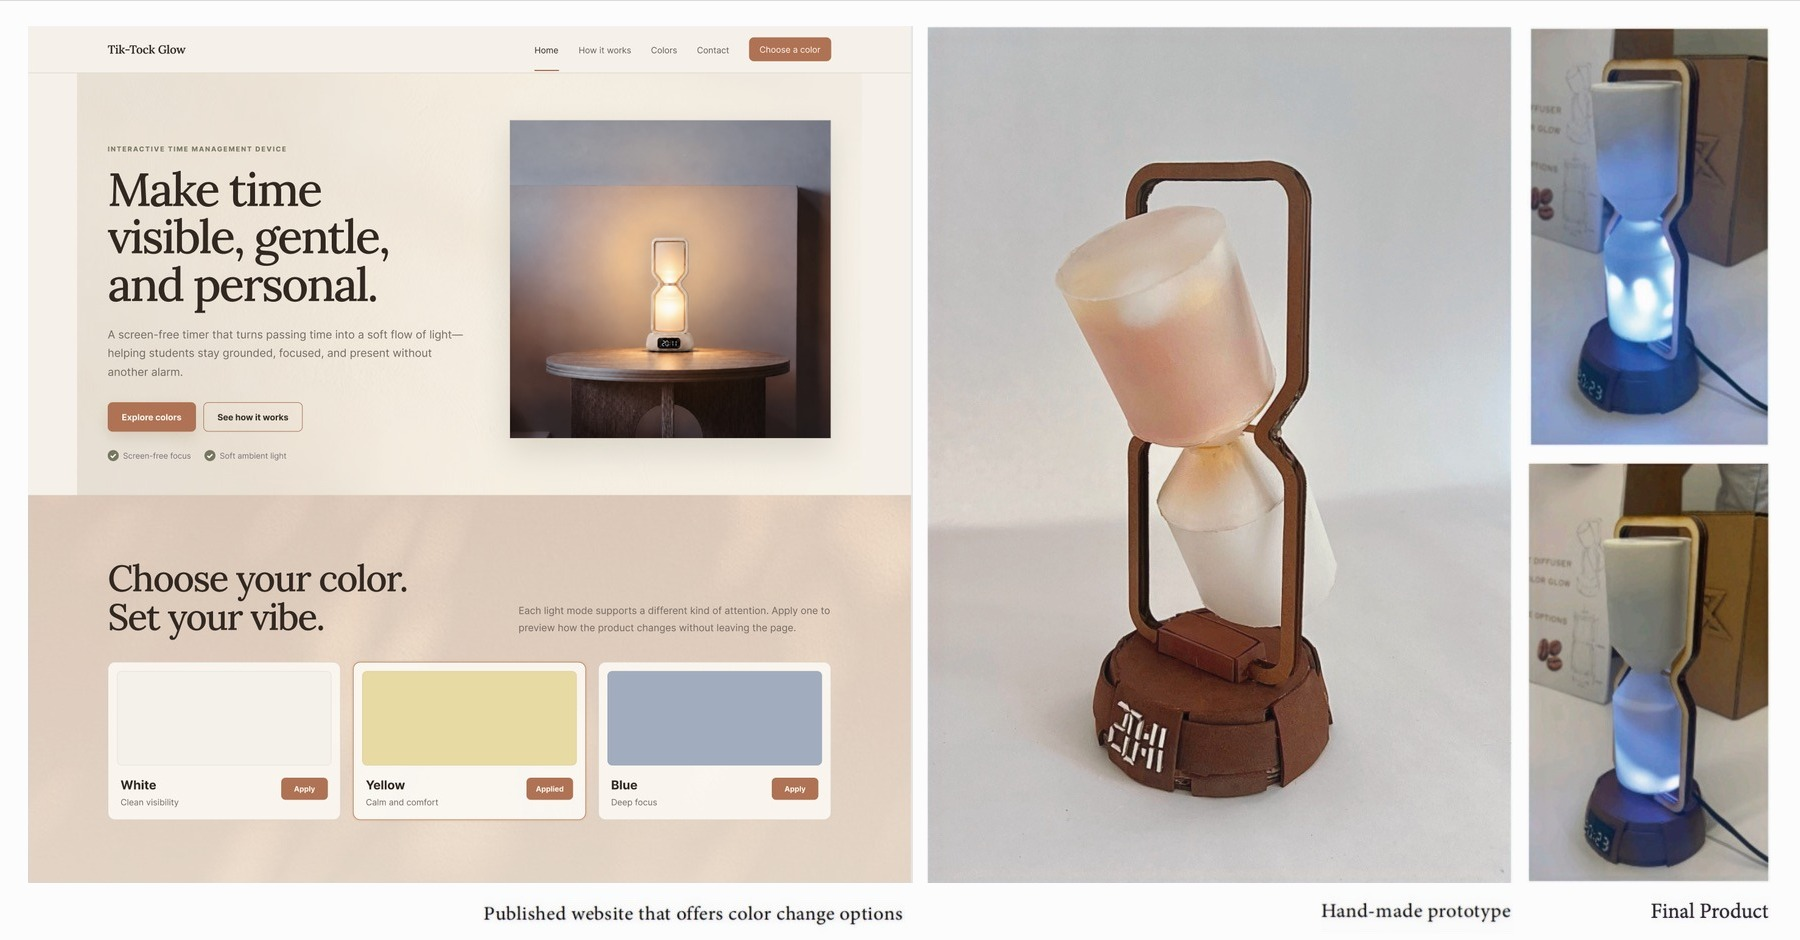
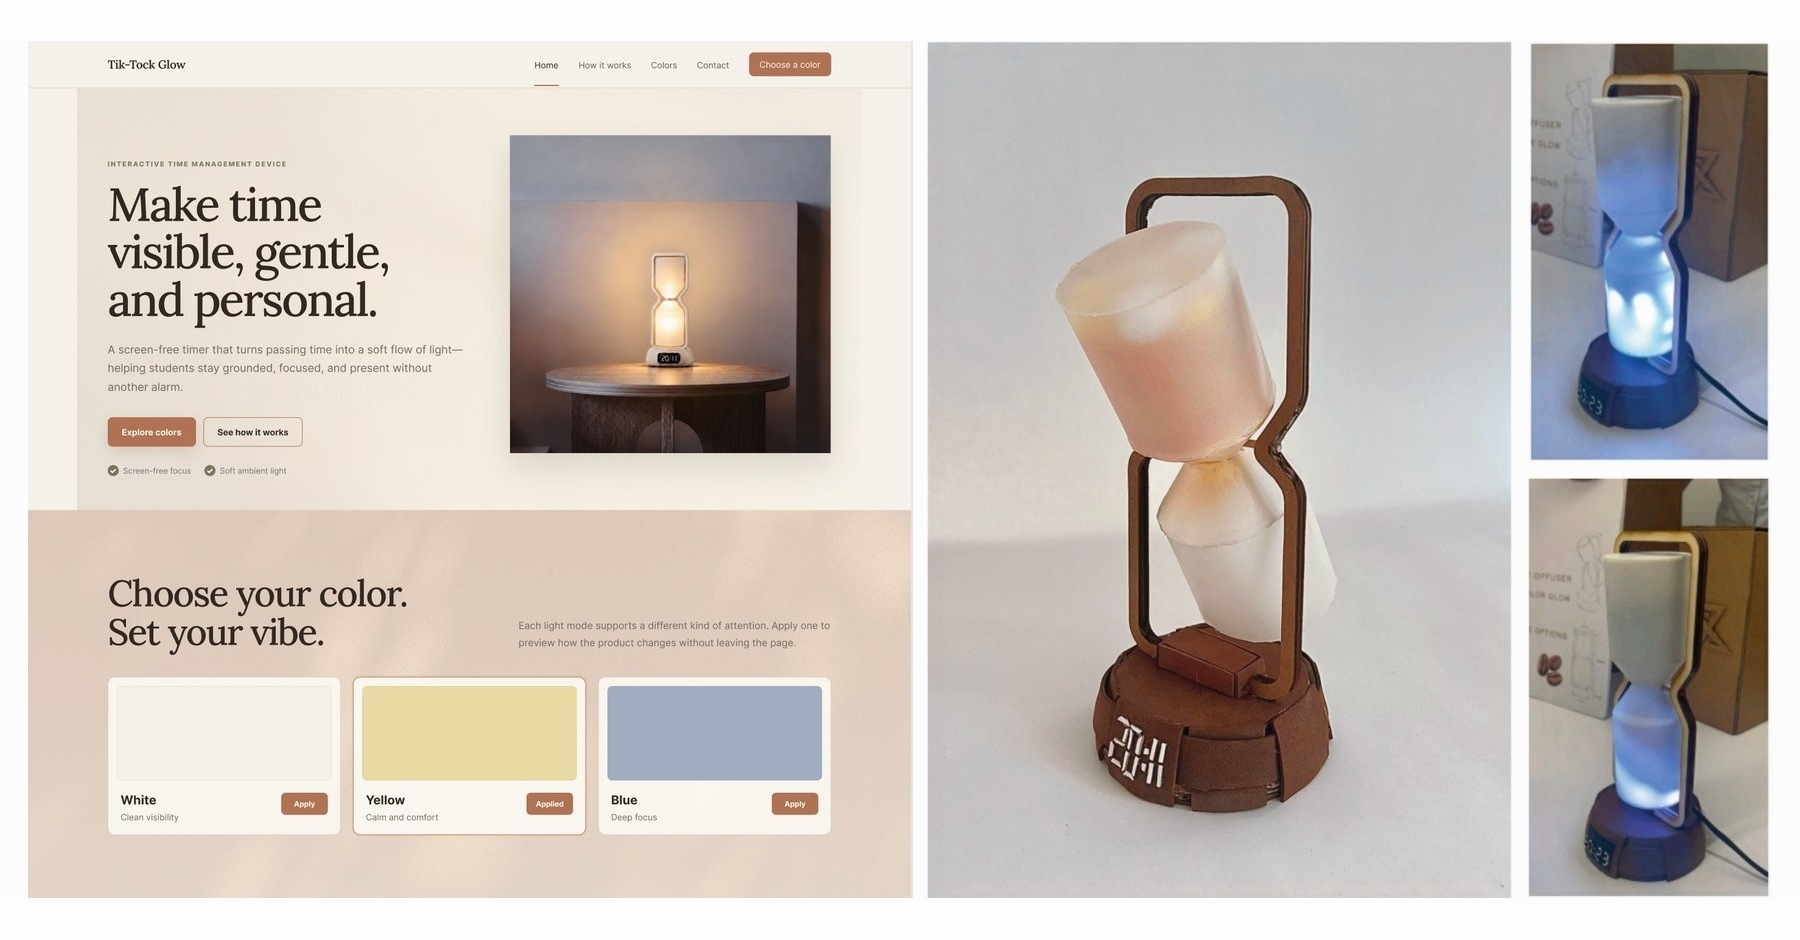
Gallery: remove typed captions from Tik-Tock Glow and battery images

diff --git a/index.html b/index.html
@@ -90,14 +90,14 @@
 
           <article class="project-slide" data-index="2" data-categories="uiux product">
             <a class="project-card project-wide" href="#tik-tock-glow" data-project="tik-tock-glow" data-detail-title="Interactive Time Management Device" data-year="2025" data-medium="Rhino, Arduino, Figma" data-description="Time often feels invisible and abstract, especially for students struggling with procrastination. Traditional timers and apps can feel cold, stressful, or easy to ignore. I designed Tik-Tock Glow to make time feel more present, calming, and intuitive.&#10;&#10;Shaped like an hourglass, the device uses soft, glowing light to indicate time passing. Flipping the hourglass starts the timer. As the countdown runs, light flows smoothly from top to bottom inside the translucent body, a visual metaphor for time slipping away. I programmed the light sequences using Arduino to create a soft and continuous movement, helping users experience time as tangible rather than stressful." aria-label="Open Tik-Tock Glow project details">
-              <img src="assets/tik-tock-glow.jpg?v=3" alt="Tik-Tock Glow website, handmade prototype, and final product" />
+              <img src="assets/tik-tock-glow.jpg?v=4" alt="Tik-Tock Glow website, handmade prototype, and final product" />
               <span class="project-reveal"><small>Product Design · UI/UX · 2025</small><strong>Tik-Tock Glow</strong><em>Project details ↗</em></span>
             </a>
           </article>
 
           <article class="project-slide" data-index="3" data-categories="product">
             <a class="project-card project-wide" href="#battery-recycling-box" data-project="battery-recycling-box" data-detail-title="Interactive Battery Recycling Box" data-year="2026" data-medium="Blender, WebAR, Cardboard box" data-description="To address low engagement with battery recycling at school, I created an interactive recycling bin that made the process both fun and educational.&#10;&#10;Inspired by childhood shape-sorting toys, I designed this battery collection box with carved shapes and an animated battery model in Blender, integrated into a WebAR experience. I repurposed discarded cardboard shipping boxes, and the project increased the school’s battery recycling by more than 50%." aria-label="Open Interactive Battery Recycling Box project details">
-<img src="assets/battery-gallery-original.jpg?v=2" alt="Interactive battery recycling box sketch" />
+<img src="assets/battery-gallery-original.jpg?v=3" alt="Interactive battery recycling box sketch" />
               <span class="project-reveal"><small>Product Design · 2026</small><strong>Interactive Battery Recycling Box</strong><em>Project details ↗</em></span>
             </a>
           </article>
